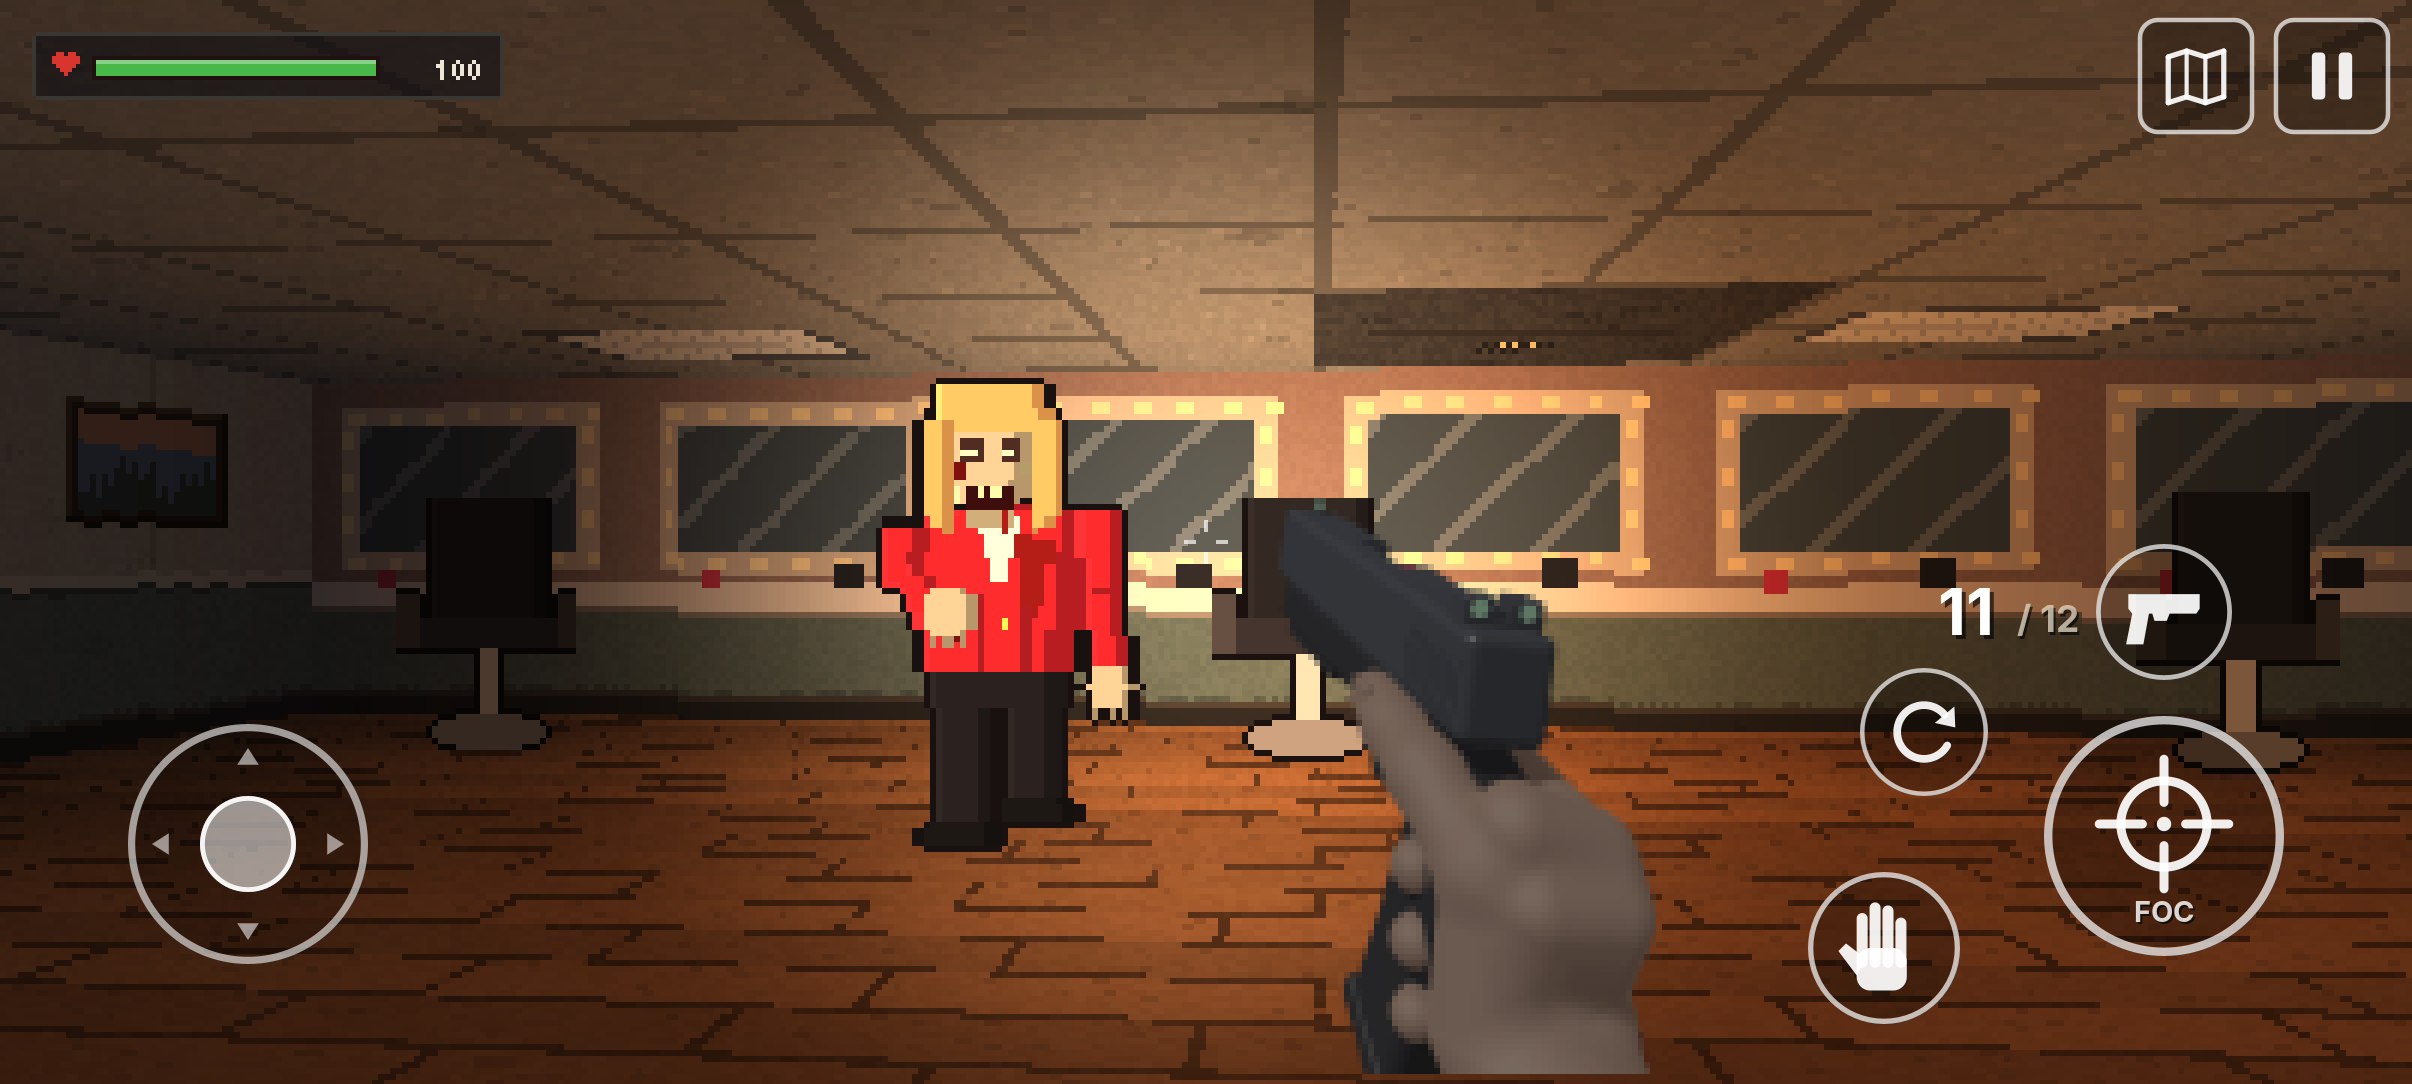
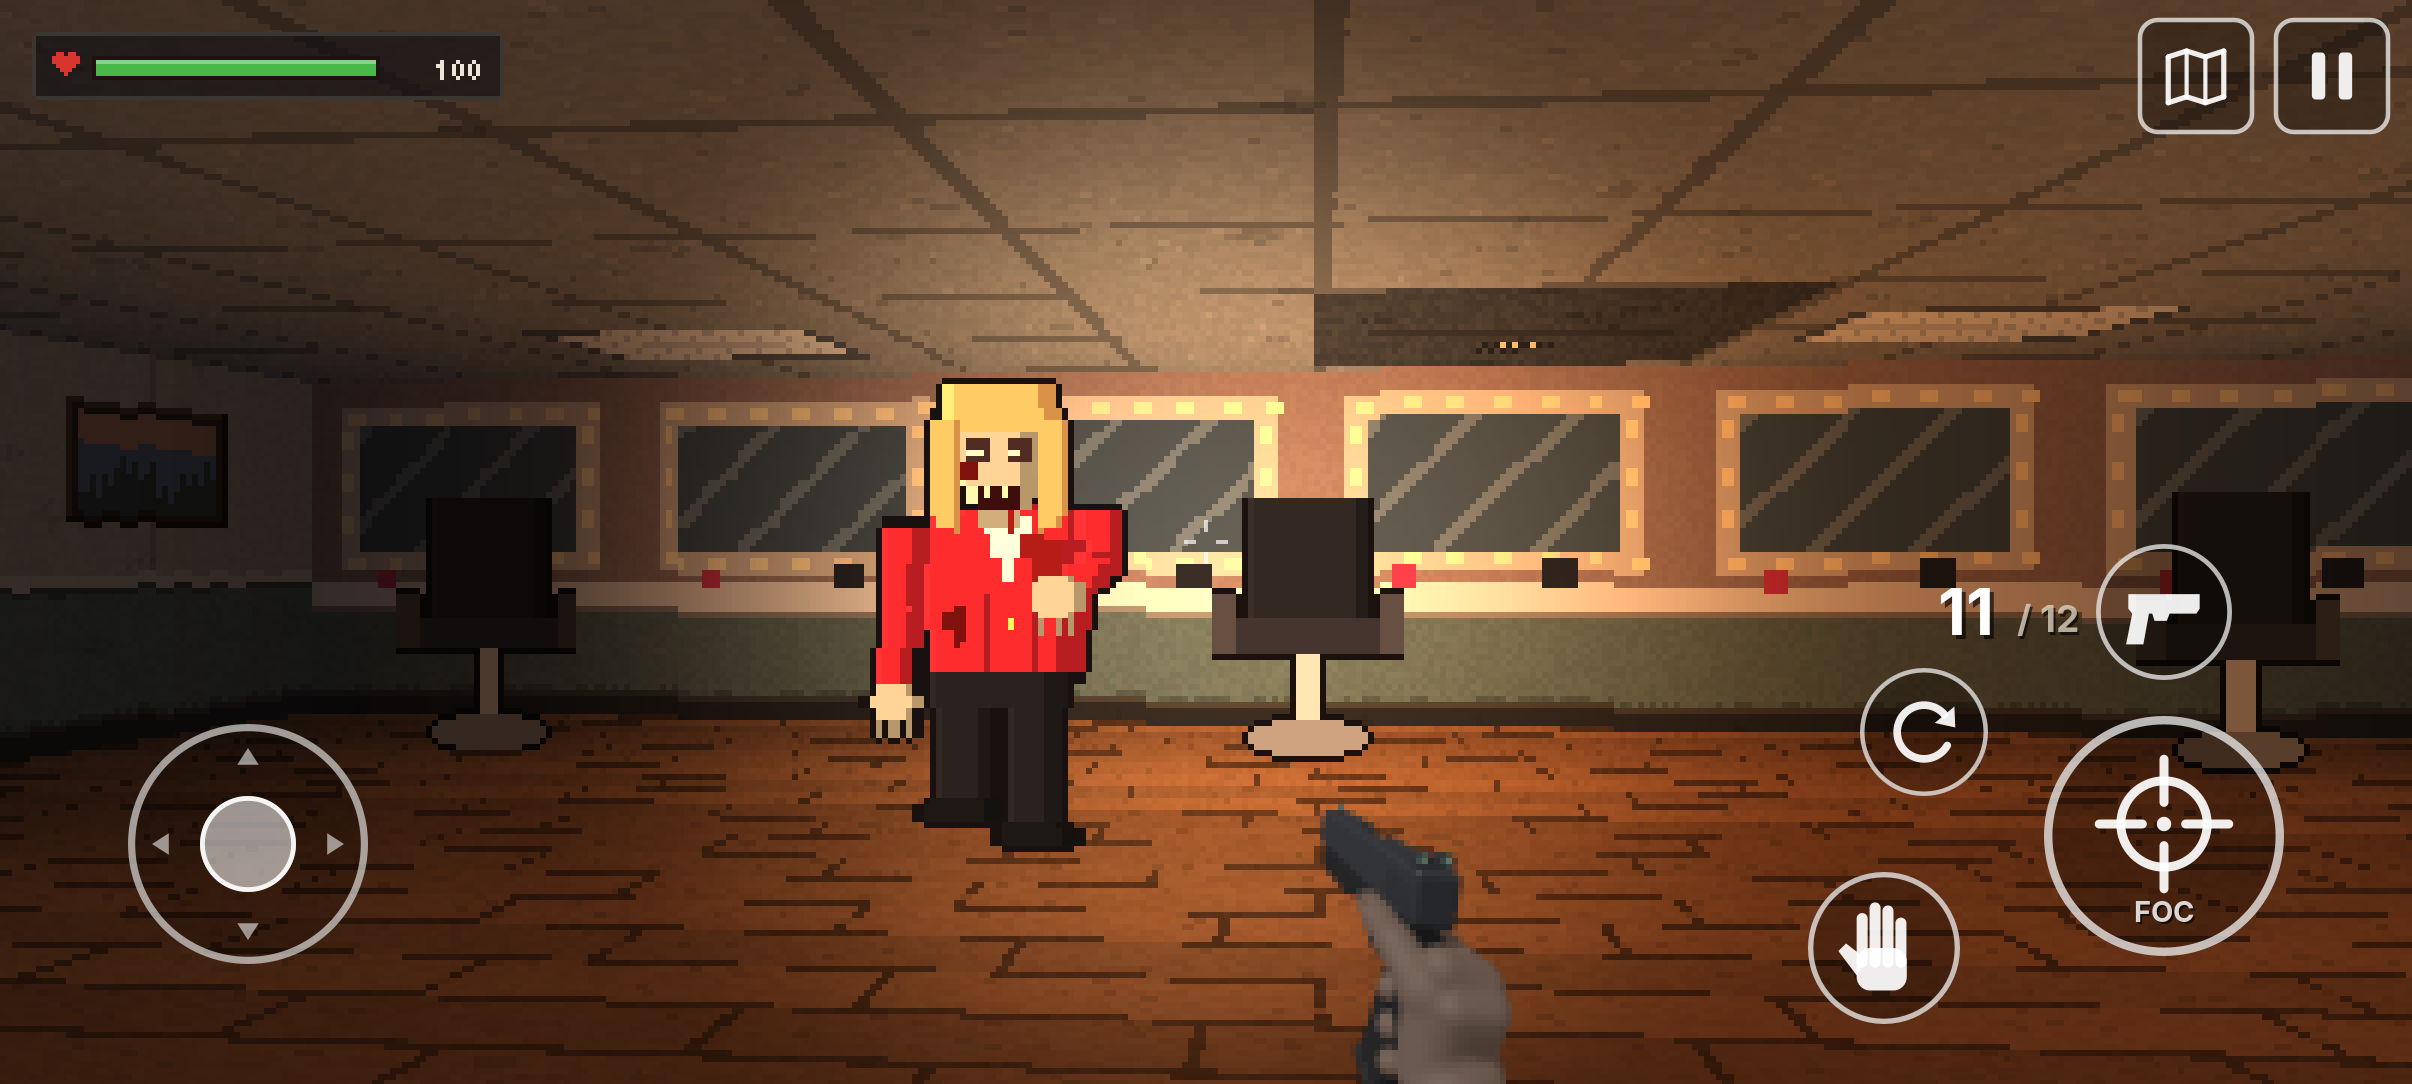
Tura de Noapte 2: hand with pistol at half size
- The rendered hand and pistol now take 26.5% of the screen height
  instead of 53%, sit a bit further right, and the walk bob, recoil and
  muzzle flash are scaled down to match.

Claude-Session: https://claude.ai/code/session_01NhDG78cuhW9v2BBirqQgHe

Changed region(s): [[0.5286, 0.4566, 0.6841, 1.0], [0.342, 0.3349, 0.4975, 0.7002], [0.3731, 0.7306, 0.4664, 0.7915]]

diff --git a/tura-de-noapte-2/src/ro/hunys/tn2/World.java b/tura-de-noapte-2/src/ro/hunys/tn2/World.java
@@ -138,7 +138,7 @@ public final class World {
     /** Pistolul HD micșorat pentru rezoluția curentă a lumii (alfa înmulțit). */
     Img gunHd;
     /** Cât din înălțimea ecranului ocupă mâna cu pistolul. */
-    public static float GUN_H = 0.53f;
+    public static float GUN_H = 0.265f;
 
     public World(Platform p) {
         plat = p;
@@ -2244,18 +2244,18 @@ public final class World {
         Img g = gunHd;
         float bob = (float) Math.sin(walkPhase * 0.5f);
         float abob = Math.abs(bob);
-        int bx = (int) (bob * H * 0.018f);
-        int by = (int) (abob * H * 0.016f);
+        int bx = (int) (bob * H * 0.010f);
+        int by = (int) (abob * H * 0.009f);
         if (reloadT > 0f) {
             float p = 1f - reloadT / W_RELOAD[0];
             by += (int) ((float) Math.sin(p * 3.14159f) * g.h * 0.75f);
         }
         boolean recoil = shootCd > W_CD[0] - 0.1f;
         if (recoil) {
-            by -= (int) (H * 0.035f);
-            bx += (int) (W * 0.006f);
+            by -= (int) (H * 0.018f);
+            bx += (int) (W * 0.003f);
         }
-        int x0 = (int) (W * 0.525f) + bx;
+        int x0 = (int) (W * 0.545f) + bx;
         int y0 = H - g.h + by + (int) (H * 0.02f);
         lightAt(px, py, tmpL);
         int L = (tmpL[0] + tmpL[1] + tmpL[2]) / 3 + (flashlight ? 60 : 0);
@@ -2274,7 +2274,7 @@ public final class World {
         if (flashT > 0f) {
             Img f = Art.flash[0];
             float k = H / 180f;
-            int fw = (int) (f.w * k * 0.9f), fh = (int) (f.h * k * 0.9f);
+            int fw = (int) (f.w * k * 0.5f), fh = (int) (f.h * k * 0.5f);
             int tipX = x0 + (int) (g.w * 0.12f), tipY = y0 + (int) (g.h * 0.02f);
             blit(buf, f, tipX - fw / 2, tipY - fh / 2 - fh / 4, fw, fh, 256, 256, 256);
         }
